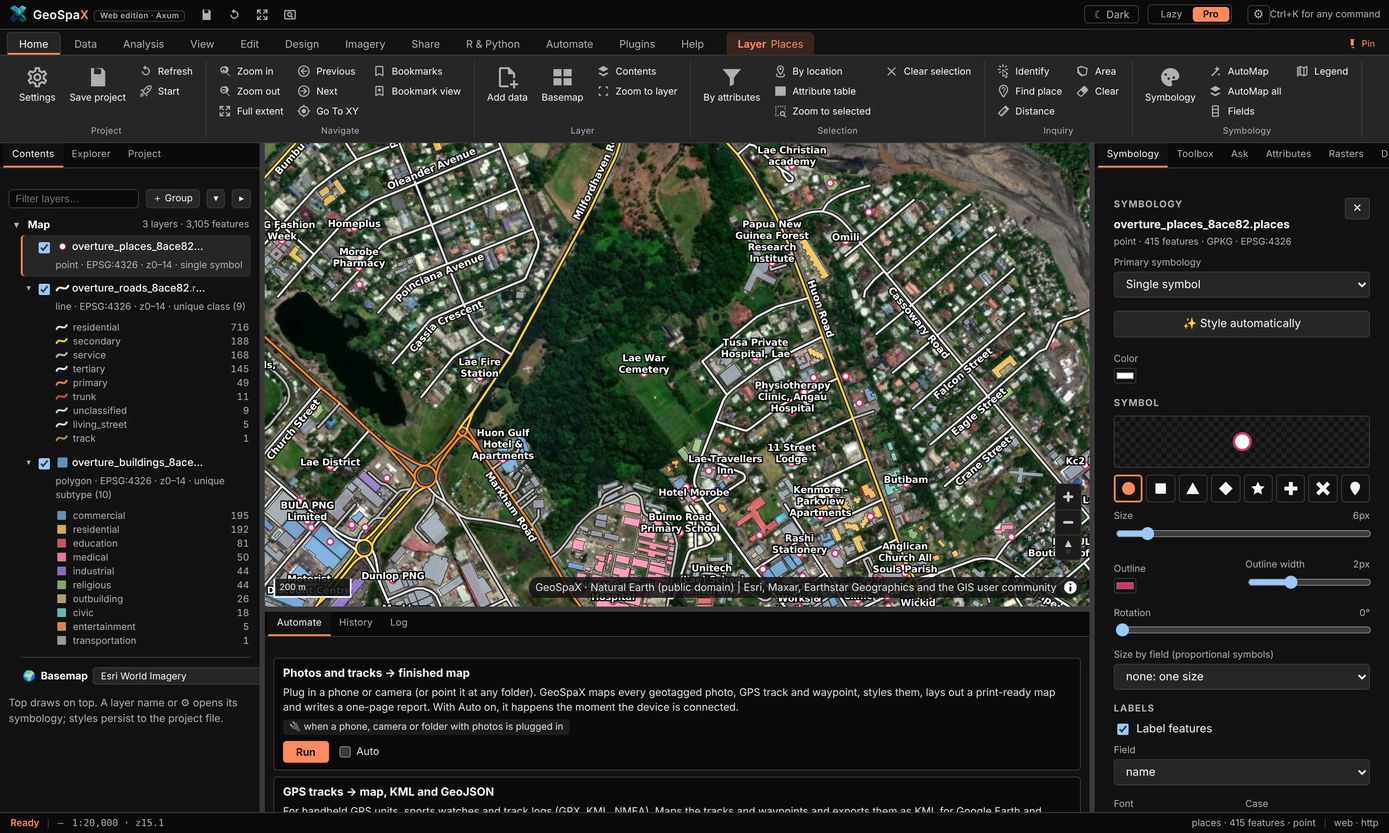
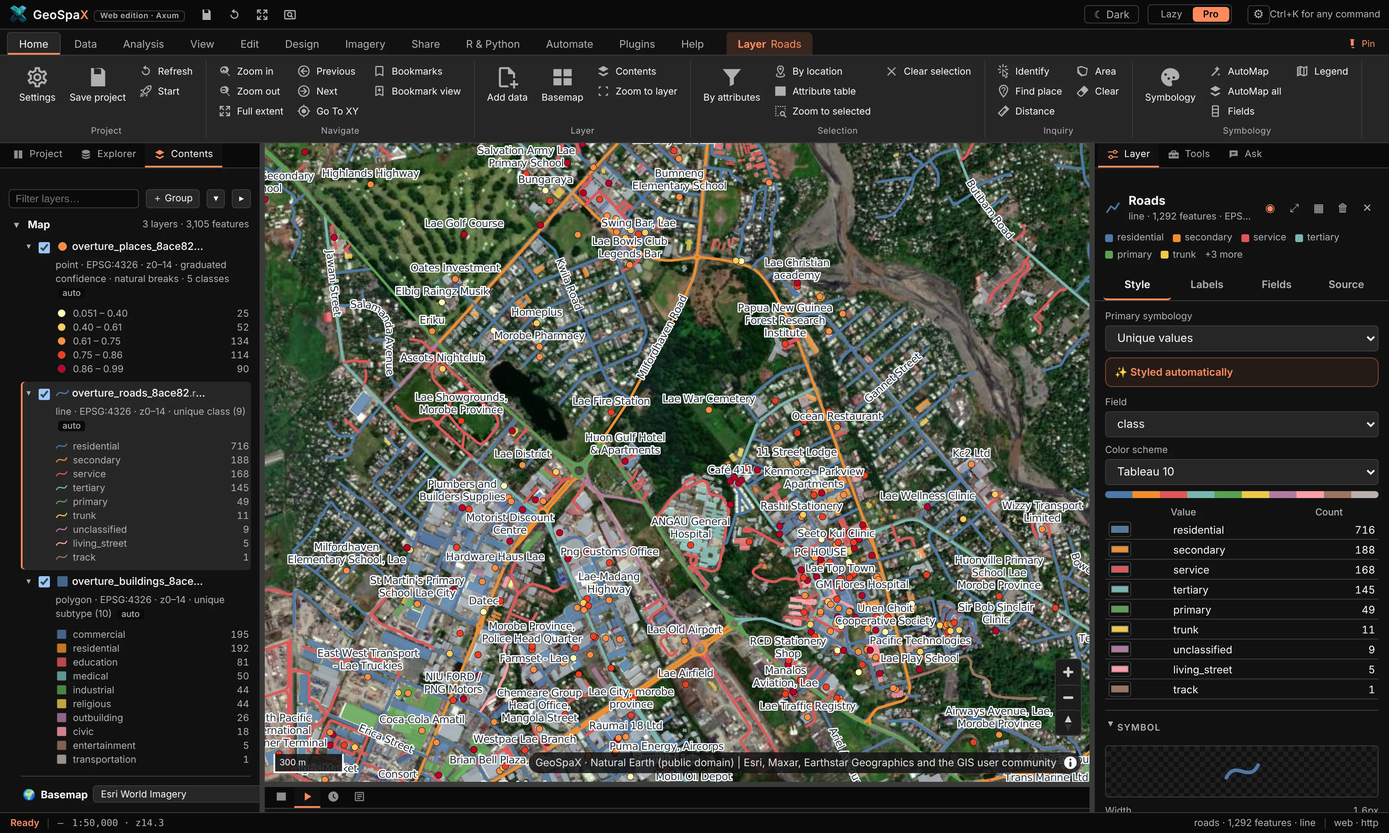
Screenshots: Pro mode of central Lae with the new panels (3200x1920)

diff --git a/site/index.html b/site/index.html
@@ -109,7 +109,7 @@
         </div>
         <div class="tab-panels">
           <figure class="window" data-panel="lazy"><img loading="lazy" src="/img/screenshot-lazy.webp" width="1600" height="960" alt="GeoSpaX Lazy mode: layer cards, a task bar and next steps" /><figcaption><b>Lazy.</b> Layer cards that say what each layer shows and why, a task bar, and one-click next steps.</figcaption></figure>
-          <figure class="window" data-panel="pro" hidden><img loading="lazy" src="/img/screenshot-pro.webp" width="1600" height="960" alt="GeoSpaX Pro mode: ribbon, layer tree and Symbology pane" /><figcaption><b>Pro.</b> A professional ribbon, the layer tree with legends, and the Symbology pane for every layer.</figcaption></figure>
+          <figure class="window" data-panel="pro" hidden><img loading="lazy" src="/img/screenshot-pro.webp" width="1600" height="960" alt="GeoSpaX Pro mode: ribbon, layer tree and the Layer tab" /><figcaption><b>Pro.</b> A professional ribbon, the layer tree with legends, and the Layer tab: style, labels, fields and source for every layer.</figcaption></figure>
           <figure class="window" data-panel="globe" hidden><img loading="lazy" src="/img/screenshot-globe.webp" width="1600" height="960" alt="GeoSpaX starting on the globe with Esri World Imagery" /><figcaption><b>It starts on the globe.</b> A clean slate over world imagery: zoom anywhere, drop in data or fetch it for the area.</figcaption></figure>
         </div>
       </div>
